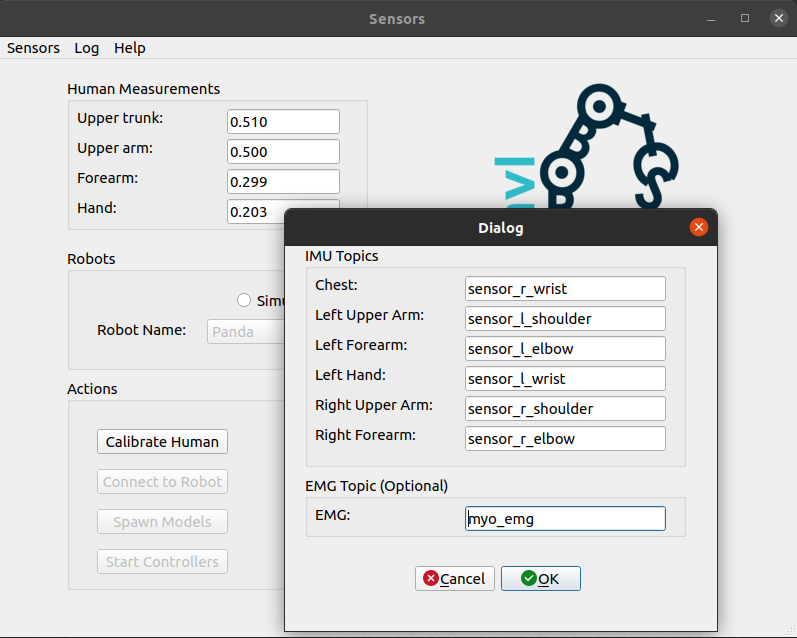
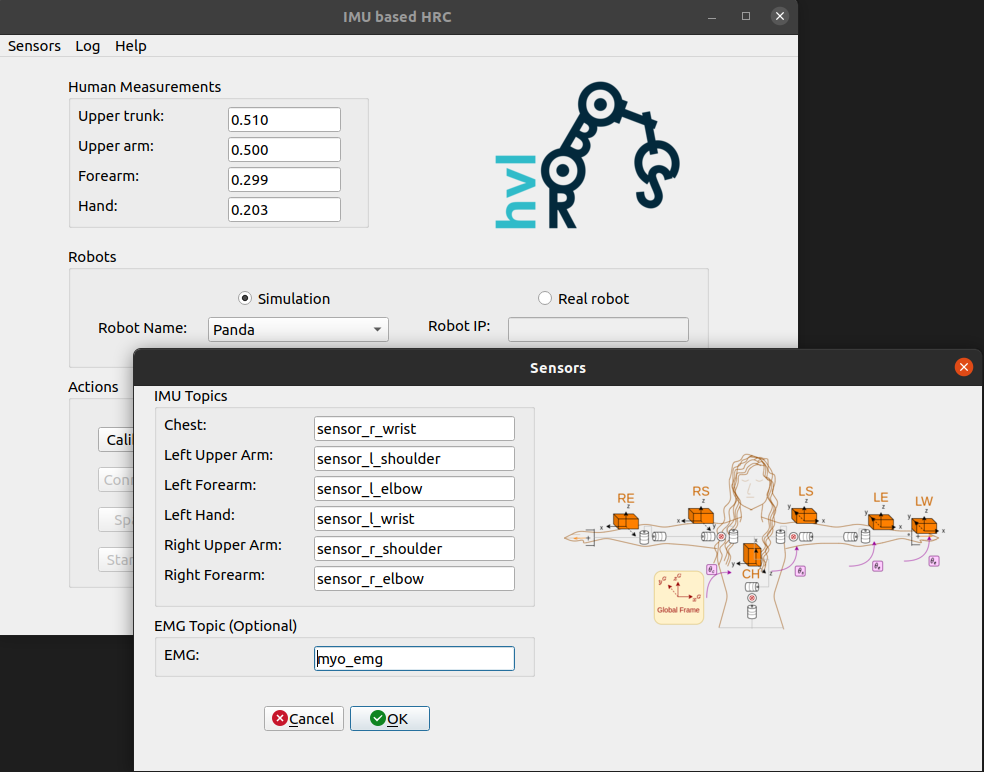
sensors.ui image added

diff --git a/src/Classes/sensors.py b/src/Classes/sensors.py
@@ -13,7 +13,7 @@ from PyQt5 import QtCore, QtGui, QtWidgets
 class Ui_Dialog(object):
     def setupUi(self, Dialog):
         Dialog.setObjectName("Dialog")
-        Dialog.resize(432, 385)
+        Dialog.resize(848, 385)
         self.groupBox_imu = QtWidgets.QGroupBox(Dialog)
         self.groupBox_imu.setGeometry(QtCore.QRect(20, 0, 381, 221))
         self.groupBox_imu.setObjectName("groupBox_imu")
@@ -67,6 +67,13 @@ class Ui_Dialog(object):
         self.buttonBox.setGeometry(QtCore.QRect(130, 320, 166, 25))
         self.buttonBox.setStandardButtons(QtWidgets.QDialogButtonBox.Cancel|QtWidgets.QDialogButtonBox.Ok)
         self.buttonBox.setObjectName("buttonBox")
+        self.label = QtWidgets.QLabel(Dialog)
+        self.label.setGeometry(QtCore.QRect(430, 20, 391, 271))
+        self.label.setText("")
+        self.label.setPixmap(QtGui.QPixmap("fig/small_imu_placement50.png"))
+        self.label.setScaledContents(False)
+        self.label.setWordWrap(False)
+        self.label.setObjectName("label")
 
         self.retranslateUi(Dialog)
         QtCore.QMetaObject.connectSlotsByName(Dialog)

diff --git a/src/qnode.py b/src/qnode.py
@@ -132,7 +132,10 @@ class MainWindow(QMainWindow, Ui_MainWindow):
         self.SensorsTool = SensorTool(self)
         self.SensorsTool.setupUi(self.Dialog)
 
-        self.setWindowTitle("Sensors")
+        self.Dialog.setWindowTitle("Sensors")
+
+
+        self.SensorsTool.label.setPixmap(QtGui.QPixmap(self.pkg_path+"/ui/fig/small_imu_placement50.png"))
 
         self.SensorsTool.lineEdit_chest.setText("sensor_r_wrist")
         self.SensorsTool.lineEdit_l_upper_arm.setText("sensor_l_shoulder")
